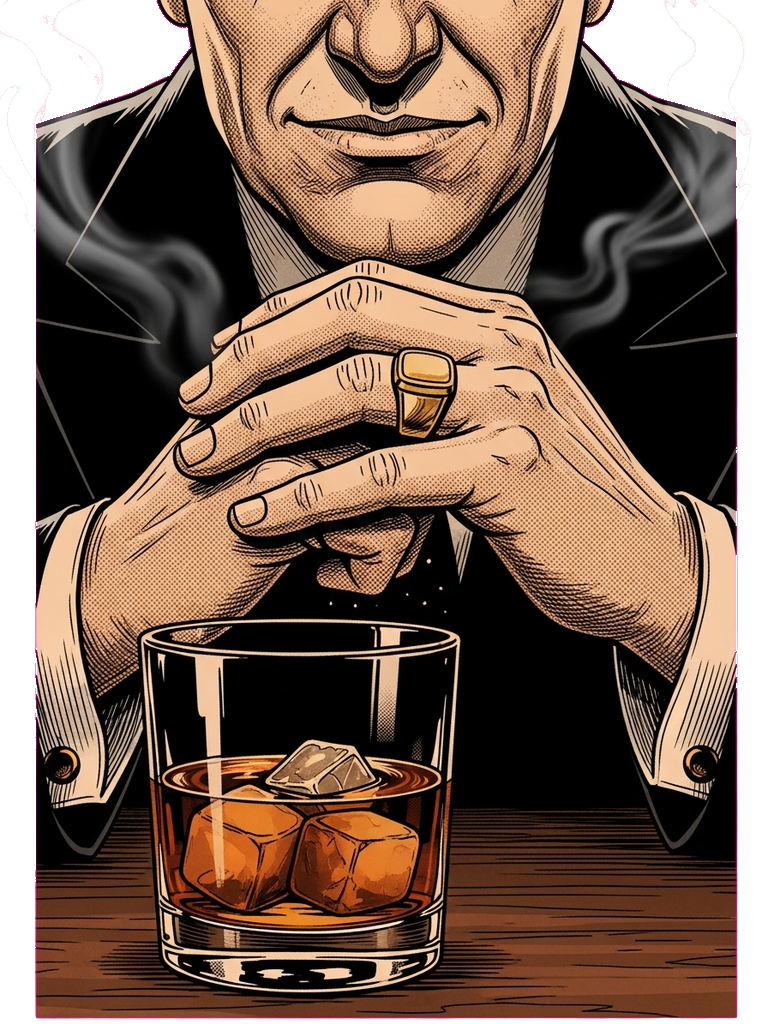
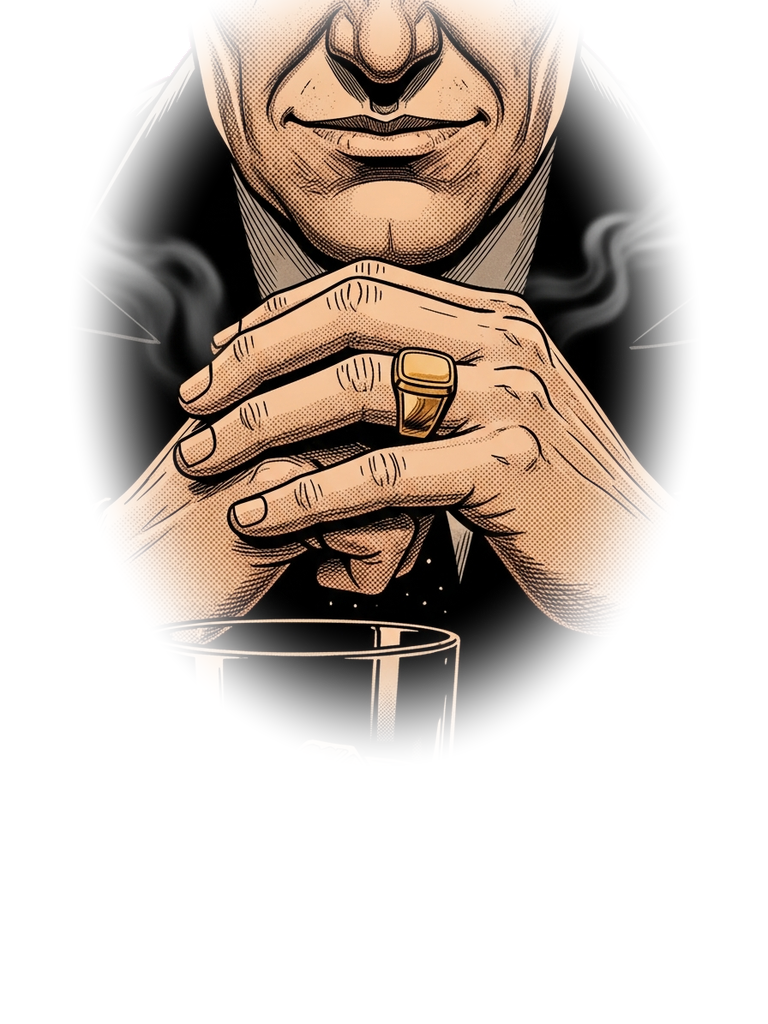
fix: apply alpha vignette to mob boss so it floats like other roles
Citizen and soldier have transparent chroma-keyed backgrounds — their
subjects float on the dark page. Mob boss was a solid rectangle.
Applied elliptical alpha vignette: opaque center, fading to transparent
at edges. Removed CSS scale/position hacks — no longer needed.

diff --git a/projects/undercover-mob-boss/public/how-to-play.html b/projects/undercover-mob-boss/public/how-to-play.html
@@ -525,10 +525,6 @@
       transition: transform 0.7s ease;
     }
 
-    .role-card__art--boss {
-      object-position: center 20%;
-      transform: scale(0.78);
-    }
 
     .role-card:hover .role-card__art {
       transform: scale(1.08);
@@ -1262,7 +1258,7 @@
       </div>
       <div class="role-card">
         <div class="role-card__art-wrap">
-          <img src="/assets/role-mob-boss.png?v=3" alt="Mob Boss" class="role-card__art role-card__art--boss" loading="lazy" />
+          <img src="/assets/role-mob-boss.png?v=3" alt="Mob Boss" class="role-card__art" loading="lazy" />
           <div class="role-card__art-fade"></div>
         </div>
         <div class="role-card__body">
